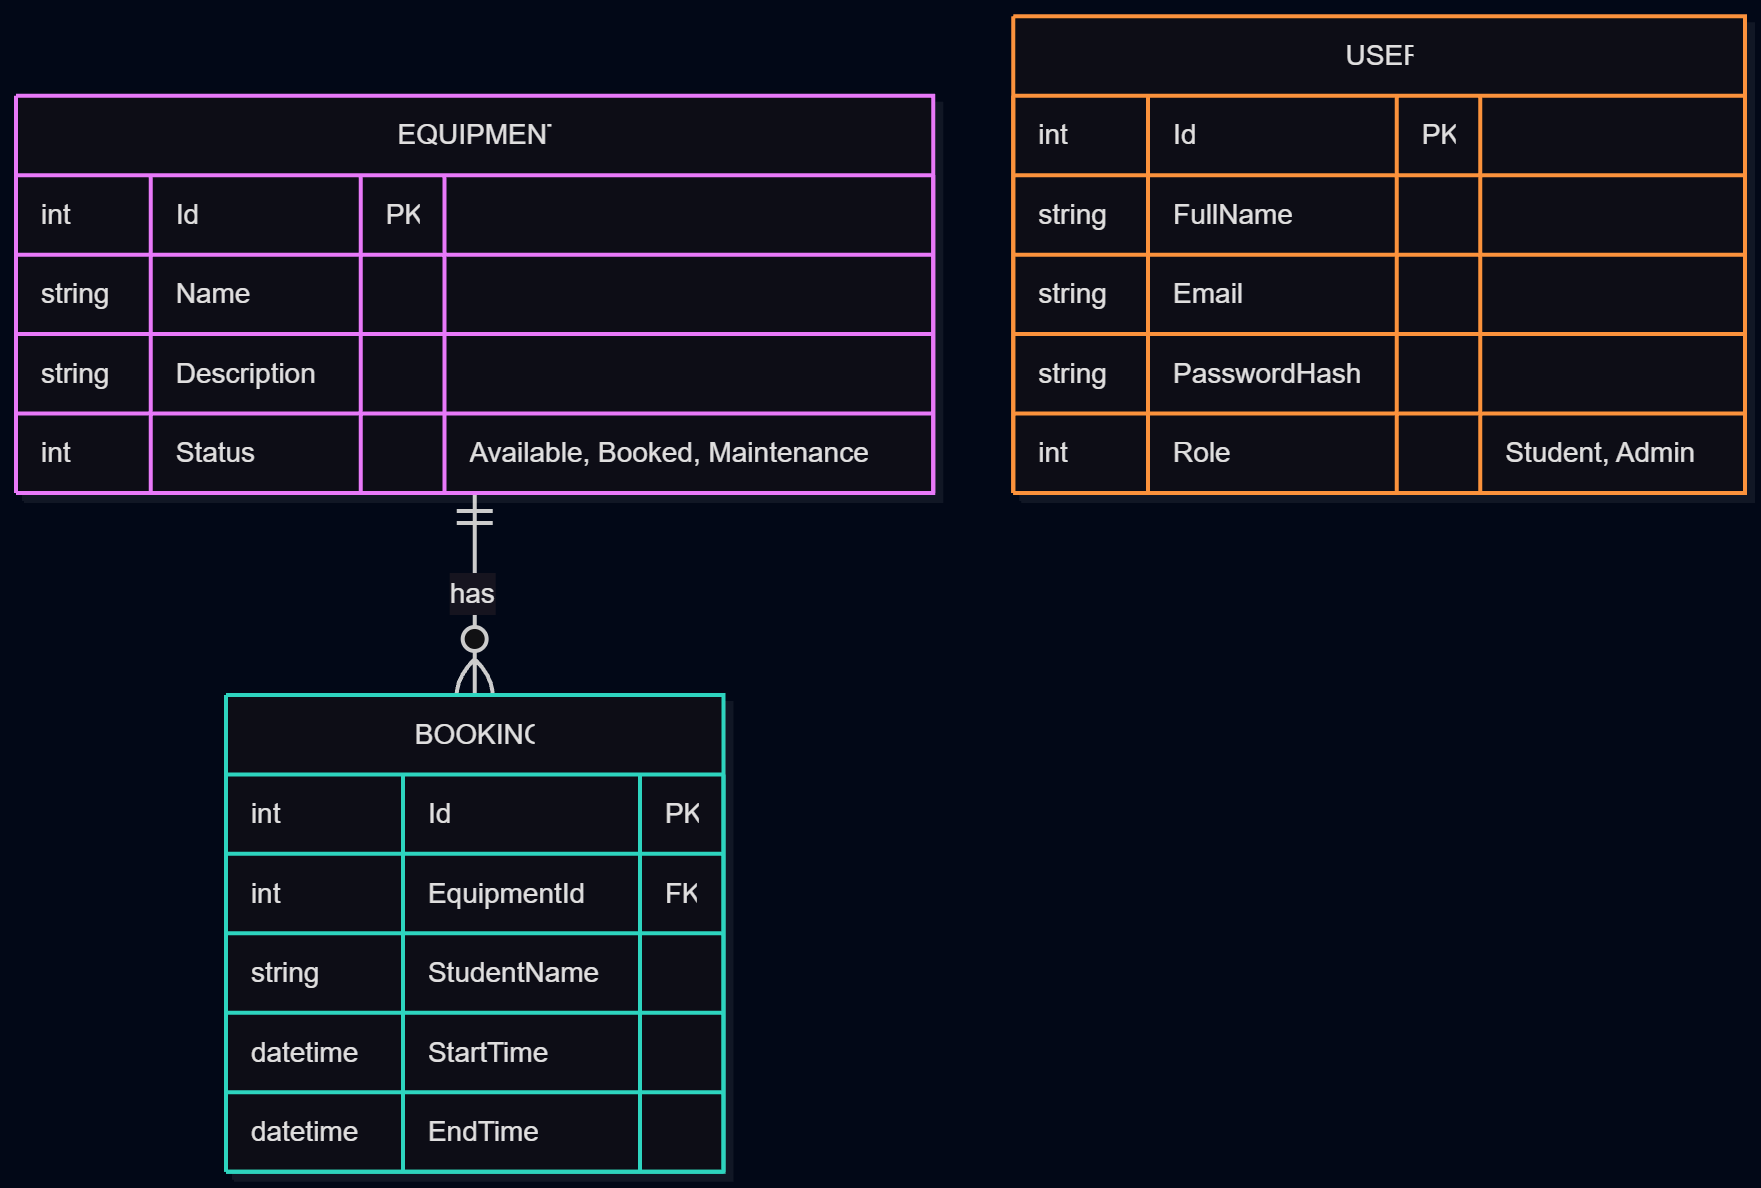
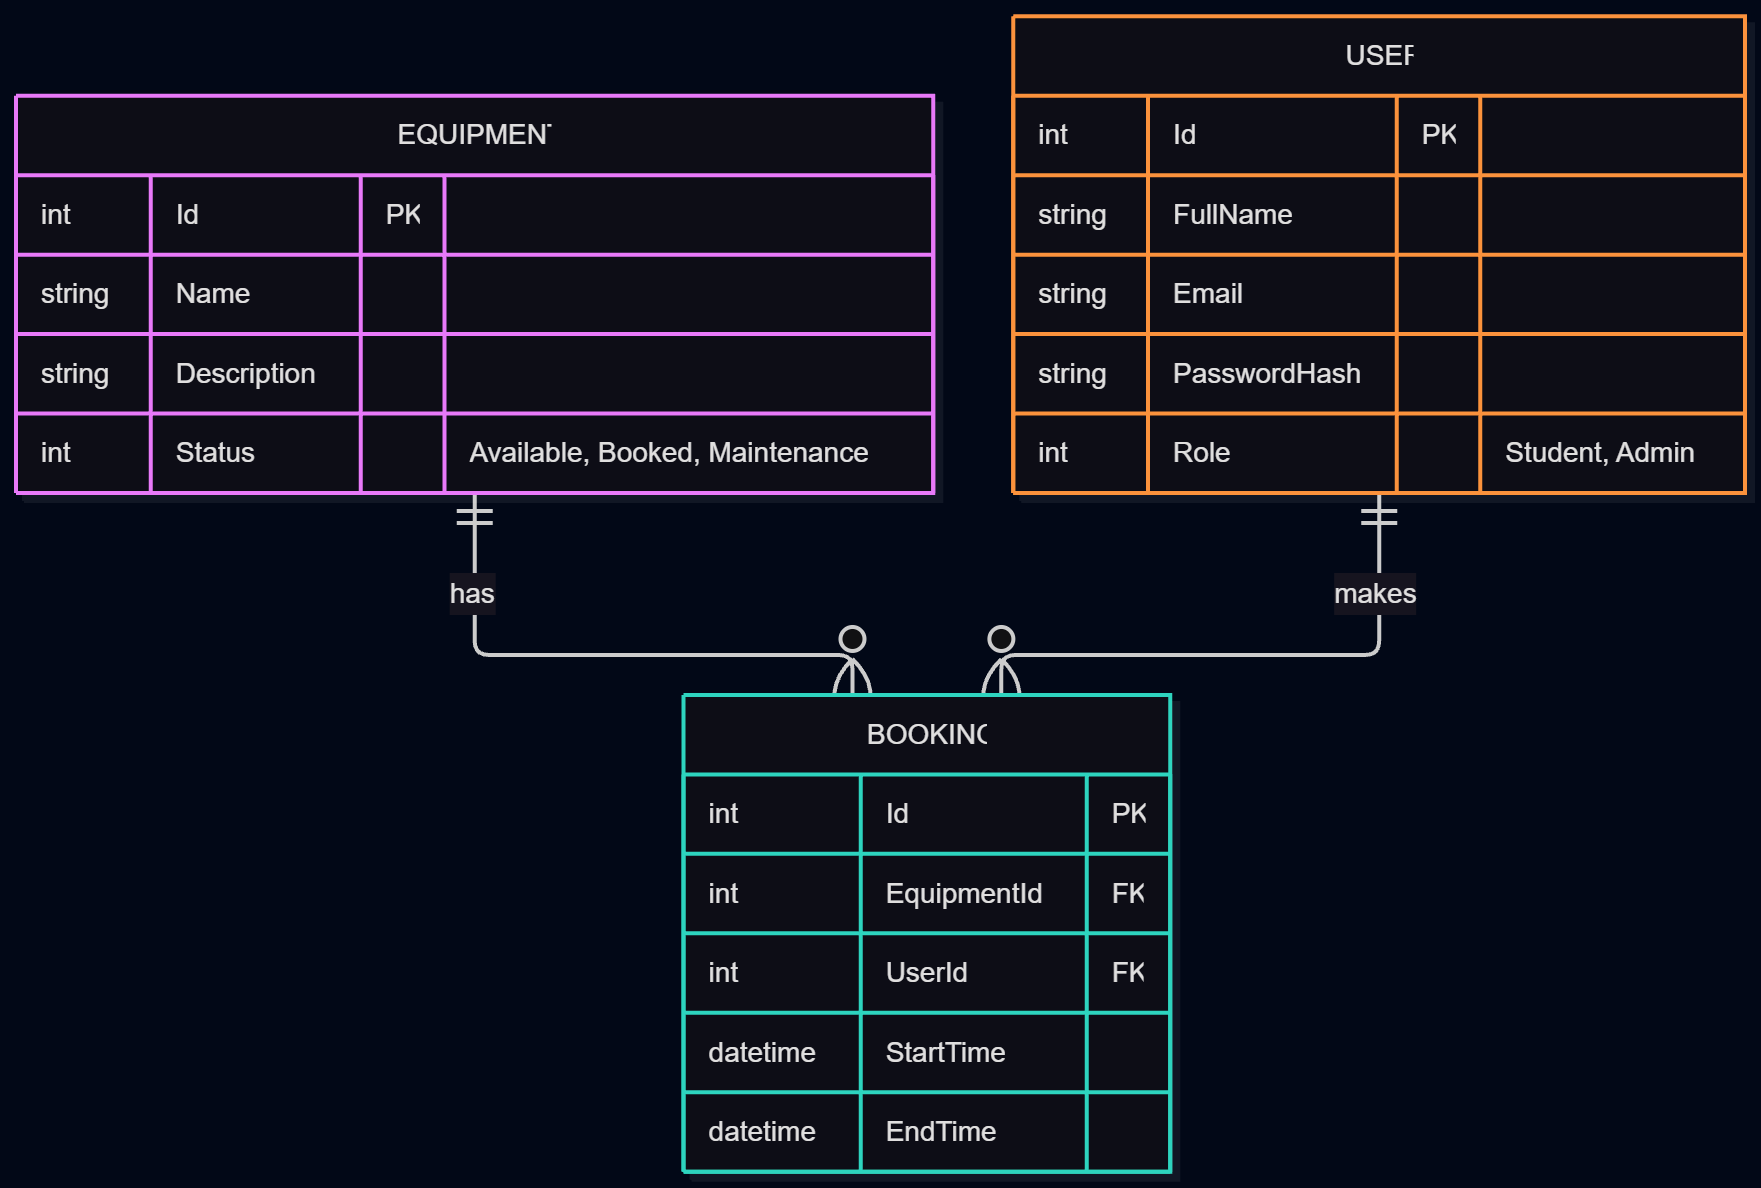
Update ER diagram, add AuthService tests

Changed region(s): [[0.1249, 0.436, 0.812, 0.9966]]

diff --git a/tests/AuthServiceTests.cs b/tests/AuthServiceTests.cs
@@ -1,0 +1,101 @@
+using LabManager.Application.Interfaces;
+using LabManager.Application.Security;
+using LabManager.Application.Services;
+using LabManager.Domain.Entities;
+using LabManager.Domain.Enums;
+using Moq;
+
+namespace LabManager.Tests;
+
+public class AuthServiceTests
+{
+    private readonly Mock<IUserRepository> _users = new();
+    private readonly AuthService _service;
+
+    public AuthServiceTests()
+    {
+        _service = new AuthService(_users.Object);
+    }
+
+    private void SetupUser(string email, string password, UserRole role = UserRole.Student) =>
+        _users.Setup(r => r.GetByEmailAsync(email)).ReturnsAsync(new User
+        {
+            Id = 1,
+            FullName = "Test User",
+            Email = email,
+            PasswordHash = PasswordHasher.Hash(password),
+            Role = role
+        });
+
+    [Fact]
+    public async Task Login_WithCorrectCredentials_ReturnsUser()
+    {
+        SetupUser("admin@labmanager.local", "Admin123", UserRole.Admin);
+
+        var user = await _service.LoginAsync("admin@labmanager.local", "Admin123");
+
+        Assert.NotNull(user);
+        Assert.Equal(UserRole.Admin, user!.Role);
+    }
+
+    [Fact]
+    public async Task Login_WithWrongPassword_ReturnsNull()
+    {
+        SetupUser("admin@labmanager.local", "Admin123");
+
+        var user = await _service.LoginAsync("admin@labmanager.local", "WrongPassword");
+
+        Assert.Null(user);
+    }
+
+    [Fact]
+    public async Task Login_WithUnknownEmail_ReturnsNull()
+    {
+        _users.Setup(r => r.GetByEmailAsync("nobody@labmanager.local")).ReturnsAsync((User?)null);
+
+        var user = await _service.LoginAsync("nobody@labmanager.local", "Admin123");
+
+        Assert.Null(user);
+    }
+
+    [Theory]
+    [InlineData("", "Admin123")]
+    [InlineData("   ", "Admin123")]
+    [InlineData("admin@labmanager.local", "")]
+    public async Task Login_WithEmptyFields_ReturnsNull_AndDoesNotQueryDatabase(string email, string password)
+    {
+        var user = await _service.LoginAsync(email, password);
+
+        Assert.Null(user);
+        _users.Verify(r => r.GetByEmailAsync(It.IsAny<string>()), Times.Never);
+    }
+
+    [Fact]
+    public async Task Login_EmailIsCaseInsensitive()
+    {
+        SetupUser("student@labmanager.local", "Student123");
+
+        var user = await _service.LoginAsync("  STUDENT@LabManager.Local ", "Student123");
+
+        Assert.NotNull(user);
+    }
+
+    [Fact]
+    public void Hash_DoesNotStorePlainPassword_AndDiffersEachTime()
+    {
+        var first = PasswordHasher.Hash("Admin123");
+        var second = PasswordHasher.Hash("Admin123");
+
+        Assert.DoesNotContain("Admin123", first);
+        Assert.NotEqual(first, second);
+    }
+
+    [Fact]
+    public void Verify_ReturnsTrueOnlyForCorrectPassword()
+    {
+        var hash = PasswordHasher.Hash("Admin123");
+
+        Assert.True(PasswordHasher.Verify("Admin123", hash));
+        Assert.False(PasswordHasher.Verify("admin123", hash));
+    }
+}
